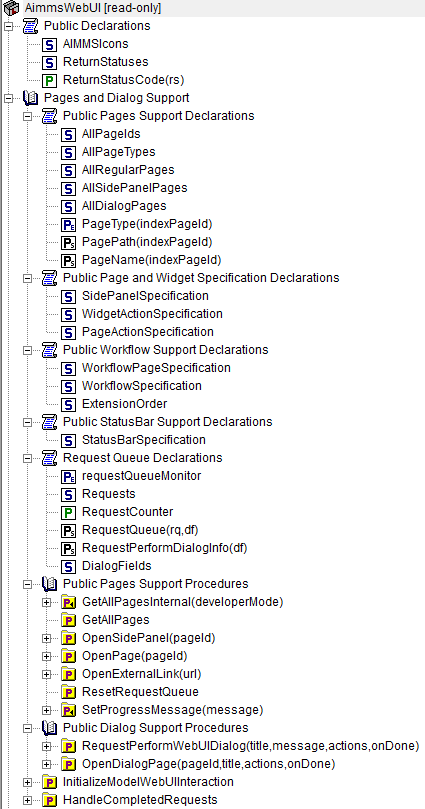
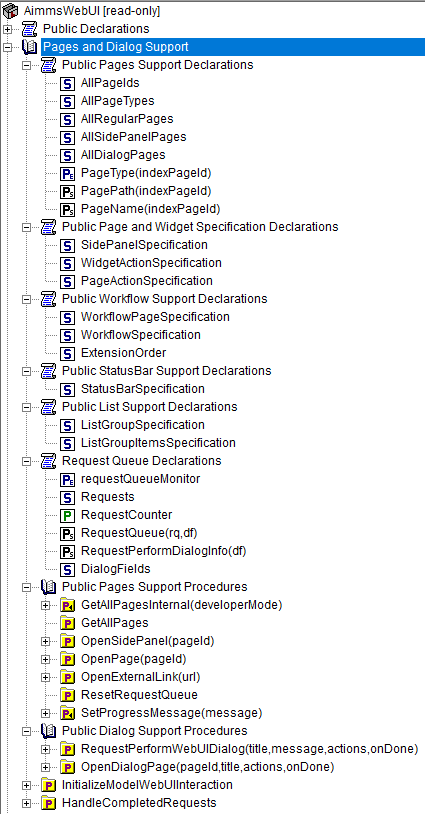
Added documentation for List Widget

Changed region(s): [[0.0, 0.0, 1.0, 1.0]]

diff --git a/webui/library.rst b/webui/library.rst
@@ -62,6 +62,27 @@ Public StatusBar Support Declarations:
 
 :token:`StatusBarSpecification` - This set is the specification used to configure Status Messages on the `Status Bar <application-settings.html#status-bar>`_ that appears on the footer. You will need to create string parameters indexed over this set.
 
+Public List Support Declarations
+
+.. _listgroupspecification:
+
+:token:`ListGroupSpecification` - This set is the specification used to `configure List Groups <list-widget.html#configuring-list-groups>`_ in the `List Widget <list-widget.html>`_. You will need to create string parameters indexed over this set. The elements of this set (defining list groups) are the following:
+
+* :token:`title` - The title for the list group to be displayed in the List widget.
+* :token:`tooltip` - Tooltip to be displayed when the user hovers over the respective list group's title.
+
+.. _listgroupitemsspecification:
+
+:token:`ListGroupItemsSpecification` - This set is used to `configure the list items <list-widget.html#configuring-items-for-lists>`_ in a specific list group. You will need to create a string parameter indexed over this set. The elements of this set (defining list group items) are the following:
+
+* :token:`icon` - The icon you want to display for the respective list item. You can select from a list of 1600+ icons, the reference can be found in the `icon list <../_static/aimms-icons/icons-reference.html>`_. `Custom icons <folder.html#custom-icon-sets>`_ can also be used if required.
+* :token:`color` - The color you want to display for the icon configured, eg: Blue, Red, etc. Browsers support around 140 color names. This is an optional field. You can also use Hex codes eg: #FF0000 for Red.
+* :token:`text` - The text you want to display for the list item. This is a required field.
+* :token:`tooltip` - Tooltip to be displayed when the user hovers over the respective list item.
+* :token:`procedure` - The procedure you want to call when the respective list item is clicked.
+* :token:`external` - Boolean value to indicate the list item procedure leads to an external link. By default, this option is 0/false.
+* :token:`state` - Active (displayed and clickable), Inactive (displayed and not clickable) and Hidden (not displayed). By default, the state is Hidden.
+
 Request Queue Declarations is used to manage the number of requests from WebUI. 
 
 Public Pages Support Procedures:

diff --git a/webui/application-settings.rst b/webui/application-settings.rst
@@ -26,8 +26,6 @@ Firstly, the options of the Workflow Panel and the Status Bar behind the Applica
 Workflow Panel
 --------------
 
-.. important:: Workflow panels are available in software versions from AIMMS 4.68 onwards as part of Experimental Features. Please reach out to User Support on how to enable Experimental Features.
-
 Starting from AIMMS 4.68, it is possible to design and configure Workflows in the AIMMS WebUI. The Workflow Panel is used to represent and run any workflow which is designed and defined by the application developer in the model. AIMMS allows the application developer to configure multiple workflows in an application.
 
 A Workflow Panel is a progression of steps (tasks, events, interactions) that comprise a work/business process and create or add value to the organization's activities. 

diff --git a/webui/widget-types.rst b/webui/widget-types.rst
@@ -21,6 +21,7 @@ More details on each widget are included in one of the corresponding sections be
    image-widget
    label-widget
    line-chart-widget
+   list-widget
    map-widget
    map-widget-old-style
    pie-chart-widget
